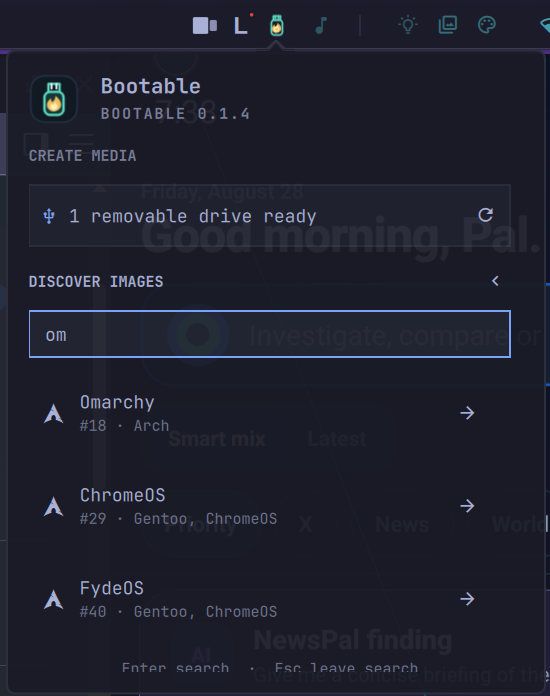
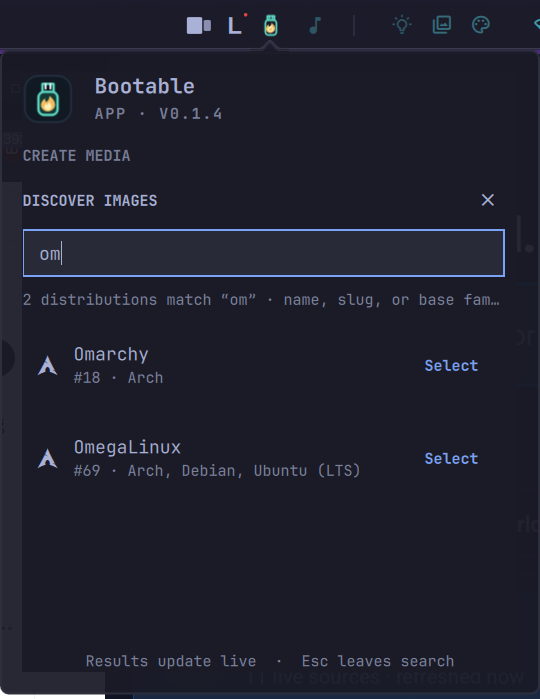
feat: polish catalog panel and marketplace preview (#13)

diff --git a/Panel.qml b/Panel.qml
@@ -13,9 +13,10 @@ Panel {
   manageIpc: false
 
   readonly property color foreground: bar ? bar.foreground : Color.foreground
-  readonly property color dim: Qt.darker(foreground, 1.55)
+  readonly property color dim: Qt.darker(foreground, 1.35)
   readonly property color accent: Color.accent
   readonly property color urgent: bar ? bar.urgent : Color.urgent
+  readonly property color panelSurface: Qt.rgba(Color.background.r, Color.background.g, Color.background.b, 0.985)
   readonly property string fontFamily: bar ? bar.fontFamily : Style.font.family
   readonly property string releaseUrl: "https://github.com/debpalash/bootable/releases/latest"
   readonly property string repositoryUrl: "https://github.com/debpalash/bootable"
@@ -173,9 +174,16 @@ Panel {
         else if ((text === "r" || text === "R") && !bootable.writing) bootable.refreshDevices()
       }
 
+      Rectangle {
+        anchors.fill: parent
+        radius: Style.cornerRadius
+        color: root.panelSurface
+      }
+
       Flickable {
         id: scroll
         anchors.fill: parent
+        anchors.bottomMargin: stickyHelp.implicitHeight + Style.space(8)
         clip: true
         contentWidth: width
         contentHeight: content.implicitHeight
@@ -191,7 +199,7 @@ Panel {
           PanelHero {
             width: parent.width
             title: "Bootable"
-            meta: bootable.loading ? "Checking local installation…" : bootable.version
+            meta: bootable.loading ? "Checking local installation…" : bootable.appVersionLabel
             foreground: root.foreground
             fontFamily: root.fontFamily
             iconComponent: Component {
@@ -212,7 +220,7 @@ Panel {
 
           DeviceStatusRow {
             width: parent.width
-            visible: bootable.clientReady
+            visible: bootable.clientReady && bootable.catalogWorkflow === "idle"
           }
 
           Column {
@@ -312,7 +320,7 @@ Panel {
                 }
 
                 PanelActionButton {
-                  iconText: ""
+                  iconText: bootable.selectedDistribution ? "" : ""
                   tooltipText: bootable.selectedDistribution ? "Back to catalog" : "Close catalog"
                   foreground: root.foreground
                   fontFamily: root.fontFamily
@@ -334,7 +342,7 @@ Panel {
                 id: catalogSearch
                 width: parent.width
                 visible: bootable.catalogWorkflow === "catalog"
-                placeholderText: "Search distributions or base…"
+                placeholderText: "Search by name, slug, or base family…"
                 text: bootable.catalogQuery
                 color: root.foreground
                 placeholderTextColor: root.dim
@@ -343,8 +351,8 @@ Panel {
                 selectByMouse: true
                 background: Rectangle {
                   radius: Style.cornerRadius
-                  color: Qt.rgba(root.foreground.r, root.foreground.g, root.foreground.b, 0.055)
-                  border.color: catalogSearch.activeFocus ? root.accent : Qt.rgba(root.foreground.r, root.foreground.g, root.foreground.b, 0.18)
+                  color: Qt.rgba(root.foreground.r, root.foreground.g, root.foreground.b, 0.10)
+                  border.color: catalogSearch.activeFocus ? root.accent : Qt.rgba(root.foreground.r, root.foreground.g, root.foreground.b, 0.28)
                   border.width: 1
                 }
                 onTextChanged: bootable.catalogQuery = text
@@ -357,6 +365,16 @@ Panel {
                   catalogSearch.focus = false
                   keyCatcher.forceActiveFocus()
                 }
+              }
+
+              Text {
+                width: parent.width
+                visible: bootable.catalogWorkflow === "catalog"
+                text: bootable.catalogResultText
+                color: root.dim
+                font.family: root.fontFamily
+                font.pixelSize: Style.font.caption
+                elide: Text.ElideRight
               }
 
               Flickable {
@@ -375,6 +393,15 @@ Panel {
                   width: catalogResults.width - Style.space(8)
                   spacing: Style.space(4)
 
+                  StatusCard {
+                    width: parent.width
+                    visible: bootable.catalogWorkflow === "catalog" && bootable.filteredCatalog.length === 0
+                    glyph: ""
+                    title: bootable.catalogResultText
+                    detail: "Try another name, slug, or base family."
+                    tone: root.dim
+                  }
+
                   Repeater {
                     model: bootable.catalogWorkflow === "catalog" ? bootable.filteredCatalog : []
                     delegate: ActionRow {
@@ -384,6 +411,7 @@ Panel {
                       detail: "#" + String(modelData.rank || "–") + " · " + String(modelData.based_on || "Independent")
                       glyph: ""
                       shortcut: ""
+                      actionLabel: "Select"
                       onTriggered: bootable.loadReleases(modelData)
                     }
                   }
@@ -399,6 +427,7 @@ Panel {
                         + (modelData.checksum ? " · publisher checksum" : " · checksum unavailable")
                       glyph: ""
                       shortcut: ""
+                      actionLabel: "Download"
                       onTriggered: bootable.downloadRelease(modelData, index)
                     }
                   }
@@ -767,19 +796,23 @@ Panel {
             }
           }
 
-          Text {
-            width: parent.width
-            text: bootable.catalogWorkflow === "idle"
-              ? "C local  ·  S discover  ·  M more  ·  Esc close"
-              : (bootable.downloading
-                ? "Safe to close · download continues"
-                : (catalogSearch.activeFocus ? "Enter search  ·  Esc leave search" : "Scroll to browse  ·  Esc close"))
-            color: root.dim
-            font.family: root.fontFamily
-            font.pixelSize: Style.font.caption
-            horizontalAlignment: Text.AlignHCenter
-          }
         }
+      }
+
+      Text {
+        id: stickyHelp
+        anchors.left: parent.left
+        anchors.right: parent.right
+        anchors.bottom: parent.bottom
+        text: bootable.catalogWorkflow === "idle"
+          ? "C local  ·  S discover  ·  M more  ·  Esc close"
+          : (bootable.downloading
+            ? "Safe to close · download continues"
+            : (catalogSearch.activeFocus ? "Results update live  ·  Esc leaves search" : "Scroll to browse  ·  Esc close"))
+        color: root.dim
+        font.family: root.fontFamily
+        font.pixelSize: Style.font.caption
+        horizontalAlignment: Text.AlignHCenter
       }
     }
   }
@@ -864,6 +897,14 @@ Panel {
         font.family: root.fontFamily
         font.pixelSize: Style.font.body
         elide: Text.ElideRight
+      }
+
+      Text {
+        visible: !bootable.devicesLoading
+        text: bootable.devicesError !== "" ? "Retry" : "Refresh"
+        color: root.dim
+        font.family: root.fontFamily
+        font.pixelSize: Style.font.caption
       }
 
       PanelActionButton {
@@ -1083,10 +1124,11 @@ Panel {
 
       Text {
         visible: bootable.eligible(device)
-        text: ""
-        color: root.dim
+        text: "Select"
+        color: root.accent
         font.family: root.fontFamily
-        font.pixelSize: Style.font.body
+        font.pixelSize: Style.font.caption
+        font.bold: true
       }
     }
   }
@@ -1167,6 +1209,7 @@ Panel {
     property string detail: ""
     property string glyph: ""
     property string shortcut: ""
+    property string actionLabel: ""
     signal triggered()
 
     foreground: root.foreground
@@ -1226,7 +1269,17 @@ Panel {
         font.pixelSize: Style.font.caption
       }
 
+      Text {
+        visible: actionRow.actionLabel !== ""
+        text: actionRow.actionLabel
+        color: root.accent
+        font.family: root.fontFamily
+        font.pixelSize: Style.font.caption
+        font.bold: true
+      }
+
       PanelActionButton {
+        visible: actionRow.actionLabel === ""
         iconText: ""
         tooltipText: actionRow.title
         foreground: root.foreground

diff --git a/Service.qml b/Service.qml
@@ -56,16 +56,37 @@ Item {
     ? Math.max(0, Math.min(100, Math.round(progressCompleted * 100 / progressTotal))) : 0
   readonly property int downloadPercent: downloadKnown && downloadTotal > 0
     ? Math.max(0, Math.min(100, Math.round(downloadCompleted * 100 / downloadTotal))) : 0
+  readonly property string appVersionLabel: {
+    var detected = String(version || "").trim()
+    var match = detected.match(/^bootable\s+(.+)$/i)
+    if (match) return "APP · v" + String(match[1]).replace(/^v/i, "")
+    return "APP · " + detected
+  }
   readonly property var filteredCatalog: {
     var query = String(catalogQuery || "").trim().toLowerCase()
     var rows = []
     for (var index = 0; index < catalog.length; index++) {
       var item = catalog[index]
-      var haystack = [item.name || "", item.slug || "", item.based_on || ""].join(" ").toLowerCase()
-      if (query === "" || haystack.indexOf(query) !== -1) rows.push(item)
+      if (catalogItemMatches(item, query)) rows.push(item)
       if (rows.length >= 30) break
     }
     return rows
+  }
+  readonly property int catalogMatchCount: {
+    var query = String(catalogQuery || "").trim().toLowerCase()
+    var count = 0
+    for (var index = 0; index < catalog.length; index++) {
+      if (catalogItemMatches(catalog[index], query)) count++
+    }
+    return count
+  }
+  readonly property string catalogResultText: {
+    var query = String(catalogQuery || "").trim()
+    if (query === "") return catalog.length + (catalog.length === 1 ? " distribution" : " distributions")
+      + (catalog.length > 30 ? " · showing first 30" : "") + " · name, slug, or base family"
+    if (catalogMatchCount === 0) return "No distributions match “" + query + "”"
+    return catalogMatchCount + (catalogMatchCount === 1 ? " distribution matches “" : " distributions match “")
+      + query + "”" + (catalogMatchCount > 30 ? " · showing first 30" : "") + " · name, slug, or base family"
   }
   readonly property int eligibleDeviceCount: {
     var count = 0
@@ -96,6 +117,34 @@ Item {
   function fileName(path) {
     var parts = String(path || "").split("/")
     return parts.length > 0 ? parts[parts.length - 1] : ""
+  }
+
+  function catalogFieldMatches(value, term) {
+    var field = String(value || "").toLowerCase()
+    if (term.length > 2) return field.indexOf(term) !== -1
+    var words = field.split(/[^a-z0-9]+/)
+    for (var index = 0; index < words.length; index++) {
+      if (words[index].indexOf(term) === 0) return true
+    }
+    return false
+  }
+
+  function catalogItemMatches(item, query) {
+    var normalized = String(query || "").trim().toLowerCase()
+    if (normalized === "") return true
+    var terms = normalized.split(/\s+/)
+    var fields = [item && item.name || "", item && item.slug || "", item && item.based_on || ""]
+    for (var termIndex = 0; termIndex < terms.length; termIndex++) {
+      var matched = false
+      for (var fieldIndex = 0; fieldIndex < fields.length; fieldIndex++) {
+        if (catalogFieldMatches(fields[fieldIndex], terms[termIndex])) {
+          matched = true
+          break
+        }
+      }
+      if (!matched) return false
+    }
+    return true
   }
 
   function formatBytes(value) {

diff --git a/README.md b/README.md
@@ -6,7 +6,7 @@ A keyboard-friendly Omarchy bar client for [Bootable](https://github.com/debpala
 
 ### Choose an image source
 
-<p align="center"><img src="preview.png" width="553" alt="Bootable Omarchy panel offering local image and Discover ISO choices"></p>
+<p align="center"><img src="preview.png" width="540" alt="Bootable Omarchy panel showing its brand mark, removable-drive status, and local or catalog image choices"></p>
 
 ### Review the loaded image and removable target
 
@@ -14,7 +14,7 @@ A keyboard-friendly Omarchy bar client for [Bootable](https://github.com/debpala
 
 ### Search Bootable's distribution catalog
 
-<p align="center"><img src="docs/screenshots/discover-images.png" width="550" alt="Bootable Omarchy panel searching distributions for Omarchy and related results"></p>
+<p align="center"><img src="docs/screenshots/discover-images.png" width="540" alt="Bootable Omarchy panel showing two prefix matches for the live om search"></p>
 
 ## Install
 
@@ -26,7 +26,9 @@ The Bootable icon appears in the right side of the Omarchy bar. Click it to open
 
 After loading an image, select its source row to return to the Local image and Discover ISO choices. This lets pointer users switch files or distributions without leaving the client; the `C` and `S` shortcuts remain available directly.
 
-The plugin delegates its media workflow to Bootable's CLI API: `catalog --json` → `releases --json` → `download --json-progress` → `inspect --json` → `devices --json` → `plan --json` → `write --json-progress`. Distribution results stay inside a bounded scrolling list. A verified download is automatically loaded as the source image, but target selection and erase acknowledgement remain explicit.
+The plugin delegates its media workflow to Bootable's CLI API: `catalog --json` → `releases --json` → `download --json-progress` → `inspect --json` → `devices --json` → `plan --json` → `write --json-progress`. Distribution results update live inside a bounded scrolling list, show the active result count, and label selection and download actions explicitly. Short queries match word prefixes, so `om` finds Omarchy without pulling in unrelated names such as ChromeOS. A verified download is automatically loaded as the source image, but target selection and erase acknowledgement remain explicit.
+
+The panel uses a nearly opaque surface for readable text over busy wallpapers and keeps its context-sensitive keyboard help visible at the bottom.
 
 Downloads run as a detached per-user systemd service and keep their progress under the user's XDG state directory. Closing the panel, moving it out of view, or restarting Omarchy Shell does not interrupt the transfer; reopening the panel restores the latest phase, byte count, percentage, speed, and ETA reported by Bootable. Only one managed ISO download runs at a time.
 
